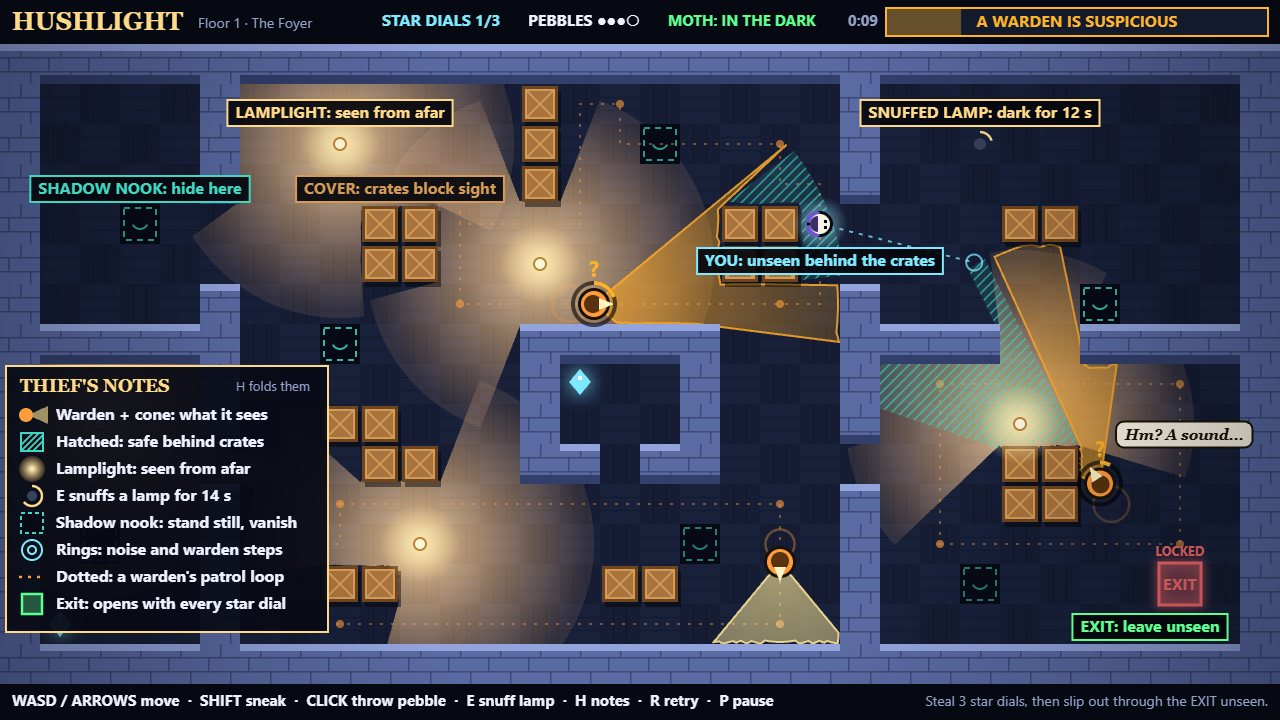
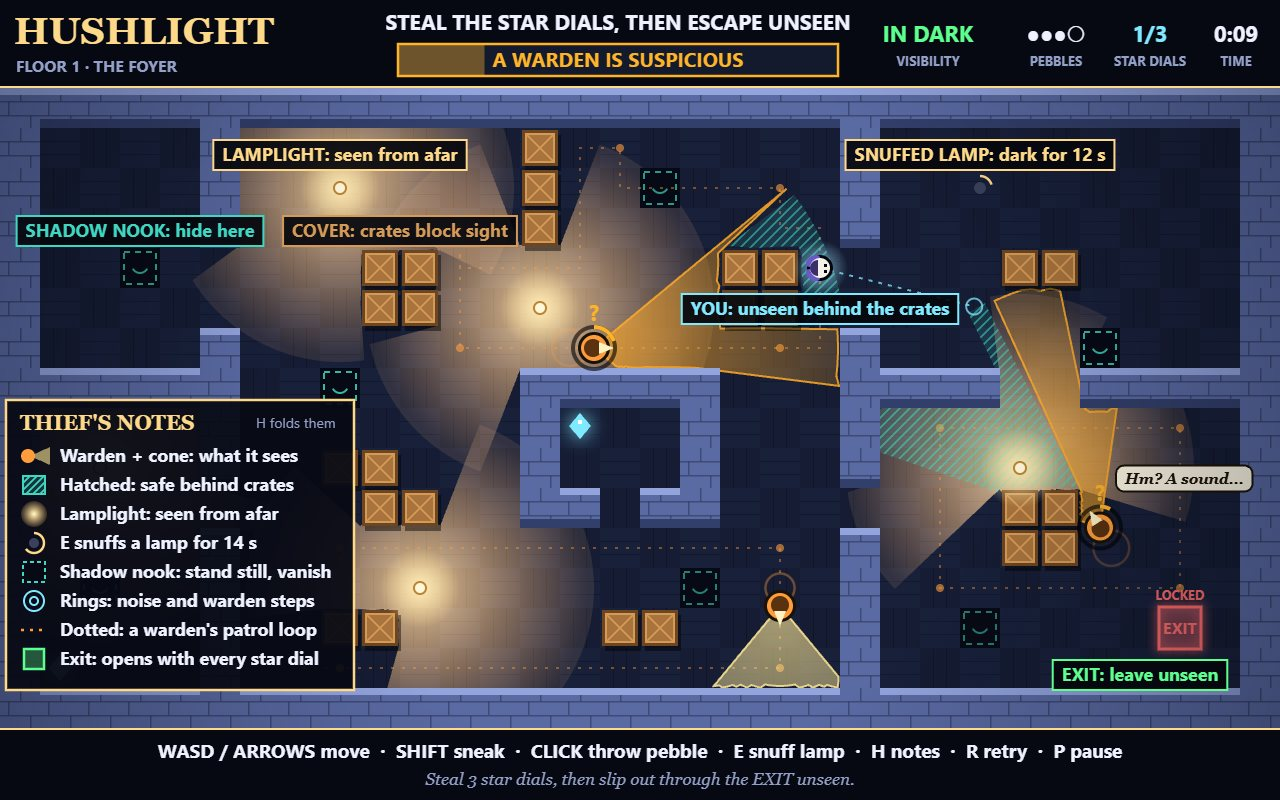
Taller 16:10 view with a larger HUD: objective, awareness meter, visibility reading

diff --git a/game/src/hud.js b/game/src/hud.js
@@ -1,5 +1,5 @@
-// The heads-up display: loot, pebbles, Moth's light meter, the awareness meter, controls,
-// the thief's notes panel and the floor labels of the first floor.
+// The heads-up display: the objective, the awareness meter, Moth's light meter, loot and
+// pebbles, the controls, the thief's notes panel and the floor labels of the first floor.
 
 import { TILE, VIEW_W, VIEW_H, HUD_TOP, HUD_BOTTOM, PALETTE, PLAYER_TUNING } from './config.js';
 import { hasLineOfSight } from './geometry.js';
@@ -7,96 +7,110 @@ import { hasLineOfSight } from './geometry.js';
 const STATUS_STYLE = {
   UNSEEN: { color: PALETTE.good, label: 'UNSEEN' },
   HIDDEN: { color: PALETTE.playerHidden, label: 'HIDDEN IN SHADOW' },
-  GLIMPSED: { color: PALETTE.warn, label: 'GLIMPSED - BREAK LINE OF SIGHT' },
+  GLIMPSED: { color: PALETTE.warn, label: 'GLIMPSED: BREAK LINE OF SIGHT' },
   SUSPICIOUS: { color: PALETTE.warn, label: 'A WARDEN IS SUSPICIOUS' },
   SPOTTED: { color: PALETTE.bad, label: 'SPOTTED! RUN AND HIDE' },
 };
 
-const NOTES = { x: 6, y: HUD_TOP + 322, width: 322, height: 266 };
+const NOTES = { x: 6, y: HUD_TOP + 312, width: 348, height: 290 };
 
 export function drawHud(ctx, world) {
   drawTopBar(ctx, world);
   drawAwarenessMeter(ctx, world);
+  drawStatColumns(ctx, world);
   drawControlsBar(ctx, world);
   drawFieldLabels(ctx, world);
   if (world.showNotes && !mothUnderNotes(world)) drawThiefNotes(ctx);
 }
 
+// Left: the game and floor. Centre: what to do right now.
 function drawTopBar(ctx, world) {
   ctx.fillStyle = '#060912';
   ctx.fillRect(0, 0, VIEW_W, HUD_TOP);
-  ctx.textBaseline = 'middle';
-  ctx.textAlign = 'left';
-  ctx.font = 'bold 25px Georgia, serif';
   ctx.fillStyle = PALETTE.lamp;
-  ctx.fillText('HUSHLIGHT', 12, HUD_TOP / 2 + 1);
-  ctx.font = '14px system-ui, sans-serif';
-  ctx.fillStyle = PALETTE.dim;
-  ctx.fillText(world.level.name, 198, HUD_TOP / 2 + 2);
-
+  ctx.fillRect(0, HUD_TOP - 2, VIEW_W, 2);
+  ctx.textAlign = 'left';
+  ctx.font = 'bold 38px Georgia, serif';
+  ctx.fillText('HUSHLIGHT', 14, 44);
   ctx.font = 'bold 16px system-ui, sans-serif';
-  ctx.fillStyle = PALETTE.relic;
-  ctx.fillText(`STAR DIALS ${world.relicsTaken}/${world.level.relics.length}`, 382, HUD_TOP / 2);
-  ctx.fillStyle = PALETTE.text;
-  let pebbles = '';
-  for (let i = 0; i < PLAYER_TUNING.pebblesPerLevel; i++) pebbles += i < world.player.pebbles ? '●' : '○';
-  ctx.fillText(`PEBBLES ${pebbles}`, 528, HUD_TOP / 2);
-  const light = lightReading(world);
-  ctx.font = 'bold 15px system-ui, sans-serif';
-  ctx.fillStyle = light.color;
-  ctx.fillText(light.label, 668, HUD_TOP / 2);
   ctx.fillStyle = PALETTE.dim;
-  ctx.fillText(formatTime(world.time), 848, HUD_TOP / 2);
-  ctx.textBaseline = 'alphabetic';
-}
+  ctx.fillText(world.level.name.toUpperCase(), 16, 72);
 
-// Moth's own light meter: how visible the floor under your feet makes you.
-function lightReading(world) {
-  const { player, level } = world;
-  if (player.hidden) return { label: 'MOTH: HIDDEN', color: PALETTE.playerHidden };
-  const light = level.lightAt(player.x, player.y);
-  if (light > 0.3) return { label: 'MOTH: IN LAMPLIGHT', color: PALETTE.warn };
-  if (light > 0) return { label: 'MOTH: IN HALF-LIGHT', color: PALETTE.lamp };
-  return { label: 'MOTH: IN THE DARK', color: PALETTE.good };
+  ctx.textAlign = 'center';
+  ctx.font = 'bold 21px system-ui, sans-serif';
+  ctx.fillStyle = PALETTE.text;
+  const objective = world.exitOpen ? 'EVERY DIAL TAKEN: REACH THE EXIT, UNSEEN' : 'STEAL THE STAR DIALS, THEN ESCAPE UNSEEN';
+  ctx.fillText(objective, 618, 30);
 }
 
 // One bar for the most aware warden: green unseen, amber suspicious, red spotted.
 function drawAwarenessMeter(ctx, world) {
   const style = STATUS_STYLE[world.status] || STATUS_STYLE.UNSEEN;
-  const x = 886;
-  const width = 382;
+  const x = 398;
+  const y = 44;
+  const width = 440;
+  const height = 32;
   ctx.fillStyle = '#141a2e';
-  ctx.fillRect(x, 8, width, 28);
+  ctx.fillRect(x, y, width, height);
   const fill = world.status === 'SPOTTED' ? 1 : world.threat;
   ctx.fillStyle = style.color;
-  ctx.globalAlpha = 0.35;
-  ctx.fillRect(x, 8, width * fill, 28);
+  ctx.globalAlpha = 0.38;
+  ctx.fillRect(x, y, width * fill, height);
   ctx.globalAlpha = 1;
   ctx.strokeStyle = style.color;
-  ctx.lineWidth = 2;
-  ctx.strokeRect(x, 8, width, 28);
+  ctx.lineWidth = 2.5;
+  ctx.strokeRect(x, y, width, height);
   ctx.fillStyle = style.color;
-  ctx.font = 'bold 16px system-ui, sans-serif';
+  ctx.font = 'bold 20px system-ui, sans-serif';
   ctx.textAlign = 'center';
-  ctx.textBaseline = 'middle';
-  ctx.fillText(style.label, x + width / 2, 23);
-  ctx.textBaseline = 'alphabetic';
+  ctx.fillText(style.label, x + width / 2, y + 23);
+}
+
+// Right: four readings, each a value over its name.
+function drawStatColumns(ctx, world) {
+  const light = lightReading(world);
+  let pebbles = '';
+  for (let i = 0; i < PLAYER_TUNING.pebblesPerLevel; i++) pebbles += i < world.player.pebbles ? '●' : '○';
+  const columns = [
+    [928, light.label, 'VISIBILITY', light.color],
+    [1056, pebbles, 'PEBBLES', PALETTE.text],
+    [1150, `${world.relicsTaken}/${world.level.relics.length}`, 'STAR DIALS', PALETTE.relic],
+    [1236, formatTime(world.time), 'TIME', PALETTE.text],
+  ];
+  ctx.textAlign = 'center';
+  for (const [x, value, name, color] of columns) {
+    ctx.font = 'bold 22px system-ui, sans-serif';
+    ctx.fillStyle = color;
+    ctx.fillText(value, x, 42);
+    ctx.font = 'bold 13px system-ui, sans-serif';
+    ctx.fillStyle = PALETTE.dim;
+    ctx.fillText(name, x, 66);
+  }
+}
+
+// Moth's own light meter: how visible the floor under your feet makes you.
+function lightReading(world) {
+  const { player, level } = world;
+  if (player.hidden) return { label: 'HIDDEN', color: PALETTE.playerHidden };
+  const light = level.lightAt(player.x, player.y);
+  if (light > 0.3) return { label: 'LAMPLIT', color: PALETTE.warn };
+  if (light > 0) return { label: 'HALF-LIT', color: PALETTE.lamp };
+  return { label: 'IN DARK', color: PALETTE.good };
 }
 
 function drawControlsBar(ctx, world) {
   const y = VIEW_H - HUD_BOTTOM;
   ctx.fillStyle = '#060912';
   ctx.fillRect(0, y, VIEW_W, HUD_BOTTOM);
-  ctx.textBaseline = 'middle';
-  ctx.textAlign = 'left';
-  ctx.font = 'bold 15px system-ui, sans-serif';
+  ctx.fillStyle = PALETTE.lamp;
+  ctx.fillRect(0, y, VIEW_W, 2);
+  ctx.textAlign = 'center';
+  ctx.font = 'bold 19px system-ui, sans-serif';
   ctx.fillStyle = PALETTE.text;
-  ctx.fillText('WASD / ARROWS move  ·  SHIFT sneak  ·  CLICK throw pebble  ·  E snuff lamp  ·  H notes  ·  R retry  ·  P pause', 12, y + HUD_BOTTOM / 2);
-  ctx.textAlign = 'right';
+  ctx.fillText('WASD / ARROWS move  ·  SHIFT sneak  ·  CLICK throw pebble  ·  E snuff lamp  ·  H notes  ·  R retry  ·  P pause', VIEW_W / 2, y + 30);
   ctx.fillStyle = PALETTE.dim;
-  ctx.font = '14px system-ui, sans-serif';
-  ctx.fillText(world.level.hint, VIEW_W - 12, y + HUD_BOTTOM / 2);
-  ctx.textBaseline = 'alphabetic';
+  ctx.font = 'italic 17px Georgia, serif';
+  ctx.fillText(world.level.hint, VIEW_W / 2, y + 57);
 }
 
 function mothUnderNotes(world) {
@@ -107,18 +121,18 @@ function mothUnderNotes(world) {
 // The thief's notes: every sign on the floor and what it means. H folds them away.
 function drawThiefNotes(ctx) {
   const { x, y, width, height } = NOTES;
-  ctx.fillStyle = 'rgba(8, 10, 20, 0.93)';
+  ctx.fillStyle = 'rgba(8, 10, 20, 0.94)';
   ctx.fillRect(x, y, width, height);
   ctx.strokeStyle = PALETTE.lamp;
-  ctx.lineWidth = 2;
+  ctx.lineWidth = 2.5;
   ctx.strokeRect(x, y, width, height);
   ctx.textAlign = 'left';
   ctx.fillStyle = PALETTE.lamp;
-  ctx.font = 'bold 18px Georgia, serif';
-  ctx.fillText("THIEF'S NOTES", x + 14, y + 26);
-  ctx.font = '13px system-ui, sans-serif';
+  ctx.font = 'bold 21px Georgia, serif';
+  ctx.fillText("THIEF'S NOTES", x + 14, y + 30);
+  ctx.font = '14px system-ui, sans-serif';
   ctx.fillStyle = PALETTE.dim;
-  ctx.fillText('H folds them', x + width - 92, y + 25);
+  ctx.fillText('H folds them', x + width - 98, y + 28);
 
   const rows = [
     [drawWardenSign, 'Warden + cone: what it sees'],
@@ -130,13 +144,13 @@ function drawThiefNotes(ctx) {
     [drawRouteSign, "Dotted: a warden's patrol loop"],
     [drawExitSign, 'Exit: opens with every star dial'],
   ];
-  ctx.font = 'bold 16px system-ui, sans-serif';
+  ctx.font = 'bold 18px system-ui, sans-serif';
   rows.forEach(([drawSign, text], i) => {
-    const rowY = y + 54 + i * 27;
-    drawSign(ctx, x + 26, rowY - 5);
+    const rowY = y + 62 + i * 29;
+    drawSign(ctx, x + 28, rowY - 6);
     ctx.fillStyle = PALETTE.text;
     ctx.textAlign = 'left';
-    ctx.fillText(text, x + 50, rowY);
+    ctx.fillText(text, x + 54, rowY);
   });
 }
 
@@ -155,15 +169,24 @@ function drawWardenSign(ctx, x, y) {
 }
 
 function drawHatchSign(ctx, x, y) {
+  ctx.save();
+  ctx.beginPath();
+  ctx.rect(x - 11, y - 9, 22, 18);
+  ctx.clip();
+  ctx.fillStyle = 'rgba(63, 214, 194, 0.2)';
+  ctx.fillRect(x - 11, y - 9, 22, 18);
+  ctx.strokeStyle = PALETTE.nookEdge;
+  ctx.lineWidth = 2;
+  ctx.beginPath();
+  for (let offset = -18; offset <= 22; offset += 7) {
+    ctx.moveTo(x - 11 + offset, y + 9);
+    ctx.lineTo(x - 11 + offset + 18, y - 9);
+  }
+  ctx.stroke();
+  ctx.restore();
   ctx.strokeStyle = PALETTE.nookEdge;
   ctx.lineWidth = 2;
   ctx.strokeRect(x - 11, y - 9, 22, 18);
-  ctx.beginPath();
-  for (let i = -6; i <= 12; i += 6) {
-    ctx.moveTo(x - 11 + Math.max(0, i), y + 9 - Math.max(0, -i));
-    ctx.lineTo(x - 11 + Math.min(22, i + 18), y + 9 - Math.min(18, 18 + (22 - i - 18 < 0 ? 22 - i - 18 : 0)));
-  }
-  ctx.stroke();
 }
 
 function drawLampSign(ctx, x, y) {
@@ -233,32 +256,32 @@ function drawFieldLabels(ctx, world) {
   const { level, player } = world;
   const crate = level.crates[3] || level.crates[0];
   const nook = level.nooks[1] || level.nooks[0];
-  if (crate) drawLabel(ctx, crate.col * TILE + TILE, crate.row * TILE + HUD_TOP - 8, 'COVER: crates block sight', PALETTE.crateLight);
-  if (nook) drawLabel(ctx, nook.col * TILE + TILE / 2, nook.row * TILE + HUD_TOP - 8, 'SHADOW NOOK: hide here', PALETTE.nookEdge);
-  drawLabel(ctx, level.exit.x - 30, level.exit.y + HUD_TOP + 50, 'EXIT: leave unseen', PALETTE.exitOpen);
+  if (crate) drawLabel(ctx, crate.col * TILE + TILE, crate.row * TILE + HUD_TOP - 10, 'COVER: crates block sight', PALETTE.crateLight);
+  if (nook) drawLabel(ctx, nook.col * TILE + TILE / 2, nook.row * TILE + HUD_TOP - 10, 'SHADOW NOOK: hide here', PALETTE.nookEdge);
+  drawLabel(ctx, level.exit.x - 40, level.exit.y + HUD_TOP + 54, 'EXIT: leave unseen', PALETTE.exitOpen);
 
   const darkLamp = level.lamps.find((lamp) => !lamp.lit);
-  if (darkLamp) drawLabel(ctx, darkLamp.x, darkLamp.y + HUD_TOP - 24, `SNUFFED LAMP: dark for ${Math.ceil(darkLamp.darkSeconds)} s`, PALETTE.lamp);
+  if (darkLamp) drawLabel(ctx, darkLamp.x, darkLamp.y + HUD_TOP - 26, `SNUFFED LAMP: dark for ${Math.ceil(darkLamp.darkSeconds)} s`, PALETTE.lamp);
   const litLamp = level.lamps.find((lamp) => lamp.lit && lamp !== darkLamp);
-  if (litLamp) drawLabel(ctx, litLamp.x, litLamp.y + HUD_TOP - 24, 'LAMPLIGHT: seen from afar', PALETTE.lamp);
+  if (litLamp) drawLabel(ctx, litLamp.x, litLamp.y + HUD_TOP - 26, 'LAMPLIGHT: seen from afar', PALETTE.lamp);
 
   const watcher = world.guards.find((guard) => Math.hypot(guard.x - player.x, guard.y - player.y) < 300 && !guard.seesPlayer && !hasLineOfSight(level, guard.x, guard.y, player.x, player.y));
   const text = player.hidden ? 'YOU: hidden in a shadow nook' : watcher ? 'YOU: unseen behind the crates' : 'YOU (Moth)';
-  drawLabel(ctx, player.x, player.y + HUD_TOP + 44, text, PALETTE.relic);
+  drawLabel(ctx, player.x, player.y + HUD_TOP + 48, text, PALETTE.relic);
 }
 
 function drawLabel(ctx, x, y, text, color) {
-  ctx.font = 'bold 16px system-ui, sans-serif';
-  const width = ctx.measureText(text).width + 16;
+  ctx.font = 'bold 18px system-ui, sans-serif';
+  const width = ctx.measureText(text).width + 18;
   const left = Math.max(4, Math.min(VIEW_W - width - 4, x - width / 2));
   ctx.fillStyle = 'rgba(5, 7, 13, 0.92)';
-  ctx.fillRect(left, y - 20, width, 26);
+  ctx.fillRect(left, y - 22, width, 30);
   ctx.strokeStyle = color;
   ctx.lineWidth = 2;
-  ctx.strokeRect(left, y - 20, width, 26);
+  ctx.strokeRect(left, y - 22, width, 30);
   ctx.fillStyle = color;
   ctx.textAlign = 'left';
-  ctx.fillText(text, left + 8, y - 2);
+  ctx.fillText(text, left + 9, y - 1);
 }
 
 export function formatTime(seconds) {

diff --git a/game/src/shots.js b/game/src/shots.js
@@ -1,7 +1,7 @@
 // Screenshot poses. ?shot=<name> plays a short scripted scene through the real game
 // (same floors, wardens, detection and drawing) and then freezes the frame for the camera.
 
-import { TILE } from './config.js';
+import { TILE, HUD_TOP } from './config.js';
 import { createWorld, stepWorld } from './world.js';
 import { snuffLamp, throwPebble } from './player.js';
 
@@ -73,7 +73,7 @@ export function applyShot(name, game, update, stepSeconds) {
       throwPebble(world.player, target.x, target.y, world);
     } else if (action === 'mouse') {
       const target = tilePoint(a, b);
-      Object.assign(game.input.mouse, { x: target.x, y: target.y + 44, inside: true });
+      Object.assign(game.input.mouse, { x: target.x, y: target.y + HUD_TOP, inside: true });
     }
   }
   if (world.outcome === 'caught') game.screen = 'caught';

diff --git a/game/index.html b/game/index.html
@@ -7,7 +7,7 @@
 <link rel="stylesheet" href="./style.css">
 </head>
 <body>
-<canvas id="game" width="1280" height="720" aria-label="Hushlight: sneak past wardens and their vision cones, hide behind crates and in shadow nooks, steal the star dials and reach the exit unseen"></canvas>
+<canvas id="game" width="1280" height="800" aria-label="Hushlight: sneak past wardens and their vision cones, hide behind crates and in shadow nooks, steal the star dials and reach the exit unseen"></canvas>
 <p id="how-to-play">WASD or arrows to move, hold Shift to sneak silently, click to throw a pebble that lures wardens, R to retry, P to pause.</p>
 <script type="module" src="./src/main.js"></script>
 </body>

diff --git a/game/style.css b/game/style.css
@@ -1,4 +1,4 @@
-/* Hushlight page: one canvas, letterboxed at 16:9 on a night-blue page. */
+/* Hushlight page: one canvas, letterboxed at 16:10 on a night-blue page. */
 html, body {
   margin: 0;
   height: 100%;
@@ -14,8 +14,8 @@ body {
 
 #game {
   display: block;
-  width: min(100vw, calc(100vh * 16 / 9));
-  aspect-ratio: 16 / 9;
+  width: min(100vw, calc(100vh * 16 / 10));
+  aspect-ratio: 16 / 10;
   cursor: crosshair;
   image-rendering: auto;
 }

diff --git a/game/src/screens.js b/game/src/screens.js
@@ -13,7 +13,8 @@ function centered(ctx, text, y, size, color, weight = 'bold') {
   ctx.font = `${weight} ${size}px system-ui, sans-serif`;
   ctx.textAlign = 'center';
   ctx.fillStyle = color;
-  ctx.fillText(text, VIEW_W / 2, y);
+  // Panels were laid out for a 720-tall view; keep them centred on the taller one.
+  ctx.fillText(text, VIEW_W / 2, y + (VIEW_H - 720) / 2);
 }
 
 export function drawTitleScreen(ctx, time) {

diff --git a/game/src/config.js b/game/src/config.js
@@ -4,9 +4,9 @@ export const TILE = 40;
 export const COLS = 32;
 export const ROWS = 16;
 export const VIEW_W = 1280;
-export const VIEW_H = 720;
-export const HUD_TOP = 44;
-export const HUD_BOTTOM = 36;
+export const VIEW_H = 800;
+export const HUD_TOP = 88;
+export const HUD_BOTTOM = 72;
 
 export const PLAYER_TUNING = {
   radius: 10,
